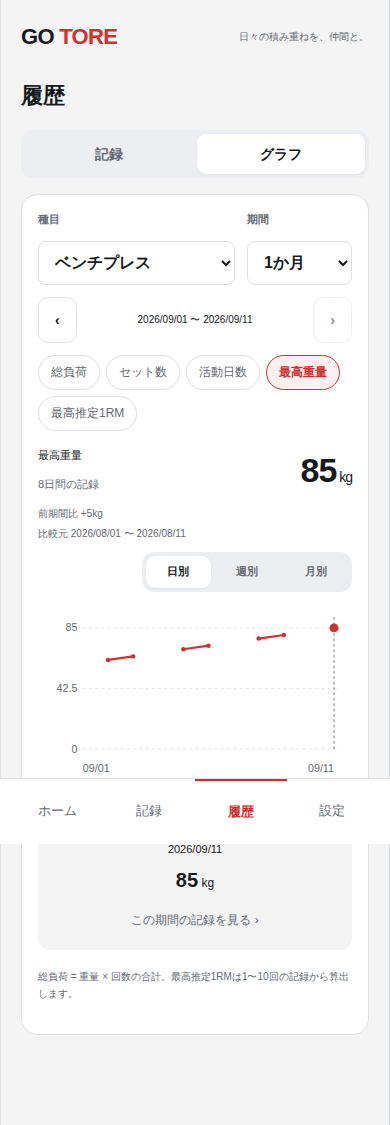
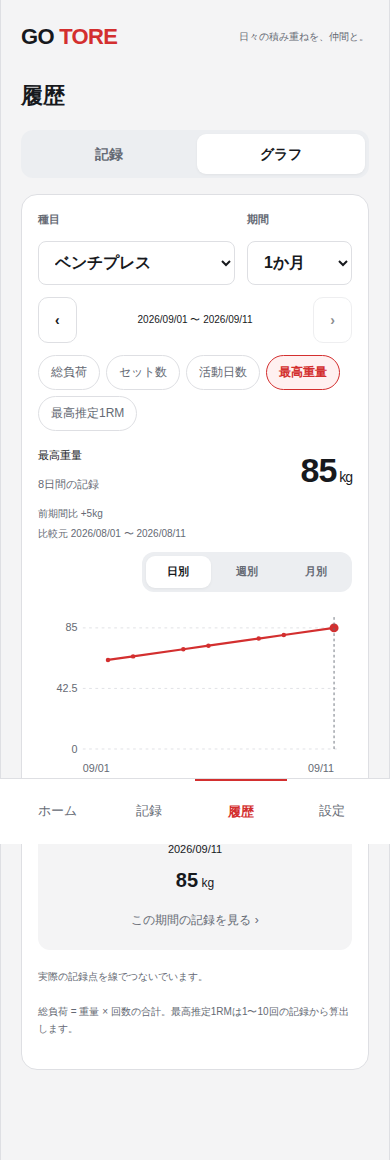
fix: 重量とRMのグラフを欠測期間をまたいでつなぐ

diff --git a/frontend/tests/unit/analytics-chart.test.tsx b/frontend/tests/unit/analytics-chart.test.tsx
@@ -1,0 +1,41 @@
+import { expect, test } from "bun:test";
+import { renderToStaticMarkup } from "react-dom/server";
+import { AnalyticsChart } from "../../src/features/analytics/chart";
+import type { Point } from "../../src/features/analytics/types";
+
+function point(day: number, weight: number | null): Point {
+  return {
+    start: `2026-09-${String(day).padStart(2, "0")}`,
+    end: `2026-09-${String(day).padStart(2, "0")}`,
+    weight,
+    rm: weight,
+    volume: weight === null ? 0 : weight * 10,
+    sets: weight === null ? 0 : 1,
+    days: weight === null ? 0 : 1,
+    people: weight === null ? 0 : 1,
+  };
+}
+
+test("重量とRMは欠測をまたいで実測点をつなぎ、欠測点や数値を生成しない", () => {
+  const points = [point(1, null), point(2, 60), point(3, null), point(4, 80), point(5, null)];
+  for (const metric of ["weight", "rm"] as const) {
+    const html = renderToStaticMarkup(<AnalyticsChart points={points} metric={metric} />);
+    expect(html.match(/class="chart-line"/g)?.length).toBe(1);
+    expect(html.match(/class="chart-dot"/g)?.length).toBe(2);
+    expect(html).toContain("実際の記録点を線でつないでいます");
+  }
+  expect(points.map((p) => p.weight)).toEqual([null, 60, null, 80, null]);
+});
+
+test("総負荷とセット数は未記録日の0を残し、重量の実測が1点なら補間点を作らない", () => {
+  const points = [point(1, 60), point(2, null), point(3, 80)];
+  for (const metric of ["volume", "sets"] as const) {
+    const html = renderToStaticMarkup(<AnalyticsChart points={points} metric={metric} />);
+    expect(html.match(/class="chart-dot"/g)?.length).toBe(3);
+  }
+  const html = renderToStaticMarkup(
+    <AnalyticsChart points={[point(1, null), point(2, 60), point(3, null)]} metric="weight" />,
+  );
+  expect(html.match(/class="chart-dot"/g)?.length).toBe(1);
+  expect(html).not.toContain(" L");
+});

diff --git a/frontend/src/features/analytics/chart.tsx b/frontend/src/features/analytics/chart.tsx
@@ -28,10 +28,12 @@ export function AnalyticsChart({
   const max = Math.max(1, ...points.map((p) => p[metric] ?? 0));
   const x = (i: number) => 50 + (i * 280) / Math.max(1, points.length - 1);
   const y = (value: number) => 175 - (value / max) * 135;
+  const connectGaps = metric === "weight" || metric === "rm";
   const paths: string[] = [];
   let path = "";
   points.forEach((p, i) => {
     if (p[metric] == null) {
+      if (connectGaps) return;
       if (path) paths.push(path);
       path = "";
     } else path += `${path ? " L" : "M"}${x(i)},${y(p[metric])}`;
@@ -58,7 +60,7 @@ export function AnalyticsChart({
         role="img"
         aria-label={`${labels[metric]}の推移`}
       >
-        <title>{labels[metric]}の推移。下のスライダーで期間を選べます。</title>
+        <title>{`${labels[metric]}の推移。下のスライダーで期間を選べます。`}</title>
         {[0, 0.5, 1].map((ratio) => (
           <g key={ratio}>
             <line x1="50" x2="334" y1={y(max * ratio)} y2={y(max * ratio)} className="chart-grid" />
@@ -116,6 +118,9 @@ export function AnalyticsChart({
           </button>
         )}
       </div>
+      {connectGaps && (
+        <p className="analytics-footnote muted">実際の記録点を線でつないでいます。</p>
+      )}
     </div>
   );
 }

diff --git a/progress.md b/progress.md
@@ -1208,3 +1208,12 @@
 - 検証: pushとPR作成の成功を確認。ローカルのmake check・E2E92件は成功済み。履歴追記のため追加アプリテストは不要、git diff --checkを確認。
 - 未解決事項: GitHub CIは確認中、レビュー待ち。
 - 次のアクション: 最終コミットのCI結果をPRと週次計画 #33 に記録する。マージ・公開DB適用・デプロイは行わない。
+
+## 2026-09-11 18:22
+- 変更内容: PR #98への「グラフを補間してつなぐ」追加依頼に対応。重量・RMは欠測をまたいで実測点を直線で接続し、画像と仕様を更新。
+- 目的: 記録がない日ごとに線が途切れて見えにくい推移を読みやすくする。
+- 影響範囲: グラフの線の表示だけ。補間した点・数値の保存や集計は行わず、先頭/末尾の外挿も行わない。総負荷・セット数・活動量の未記録日0は維持。
+- 関連ファイル: frontend/src/features/analytics/chart.tsx、frontend/tests/unit/analytics-chart.test.tsx、docs/history-analytics.md、docs/images/history-analytics/。
+- 検証: 変更前に描画テストの失敗を確認。変更後はmake check成功（backend160件、frontend39件、lint/型検査/build）。実ブラウザで連結後の線と画像を確認し、実行エラーなし。記録/共有フローは変えていないためローカル全E2Eを追加実行せず、PRのCIで再確認する。変更前の最終CI d501b18 は全成功（E2E92件）。
+- 未解決事項: 追加変更をpushした後のCI確認。
+- 次のアクション: PR #98の画像・説明を更新し、CI結果を確認する。

diff --git a/docs/history-analytics.md b/docs/history-analytics.md
@@ -8,6 +8,7 @@
 - 個人は1か月・3か月・1年・全期間。グループは週・月・全期間、過去期間にも移動できる。週は月曜日、日付はJSTの `performed_on` を使う。
 - 日・週・月の集計粒度を切り替える。長期間は日別366日、週別156週までとし、それを超える粒度は表示せず月別を使用する。全期間でも描画量を制限する。
 - グラフの点を選ぶと値と対象日付を表示。個人ではその集計期間の記録へ進める。空の重量・RMは0に置換せず、記録なしとして扱う。
+- 最高重量・RMは記録のない期間をまたいで前後の実測点を直線でつなぐ。点・選択時の数値は実測だけとし、先頭/末尾の外挿や補間値の保存・集計は行わない。セット数・総負荷・活動量は未記録日の0を保持する（PR #98への追加依頼）。
 - グループ詳細に「最新記録」「グラフ」「ランキング」を置く。グラフは総負荷・セット数・活動人数。
 - ランキングは総負荷・セット数・活動日数、種目別最高重量・最高推定1RMと、それぞれの成長量（kg）・成長率（%）。同値は同順位（1、1、3）、記録なしは順位なし。順位のない初記録は一覧の後に表示する。
 
